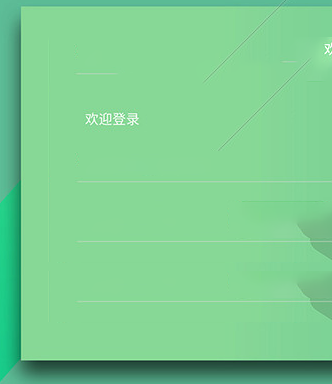
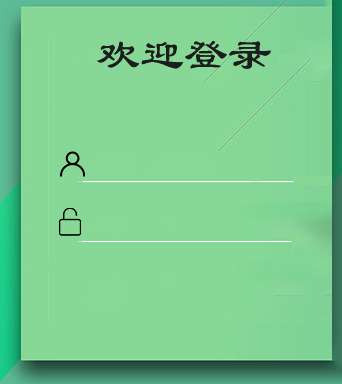
修改分数记录之前

diff --git a/app/src/main/java/cn/edu/glut/llk/MainLogical.java b/app/src/main/java/cn/edu/glut/llk/MainLogical.java
@@ -15,8 +15,7 @@ import java.util.List;
 import java.util.Map;
 
 public class MainLogical {
-    private String UsernameTest;
-    private String PasswordTest;
+    private final Controller MyController;
 
     private int Sound=1;//1为开
     Bitmap SoundOn;
@@ -28,6 +27,7 @@ public class MainLogical {
         this.myobserver =new Myobserver();
         this.game=game;
         this.myHandler=new Controller.MyHandler(this);
+        this.MyController=new Controller(this,game.getActivity());
         this.SoundOn = game.getImage("SoundOn.png");
         this.SoundOff= game.getImage("SoundOff.png");
     }
@@ -35,6 +35,10 @@ public class MainLogical {
     public void setProgressBar(int progressBarTime, int gameTime) {
         getObjectById("ProgressBar").setW(getObjectById("gameTime").getW()*gameTime/progressBarTime);
         getObjectById("ProgressBar2").setW(getObjectById("gameTime").getW()*gameTime/progressBarTime);
+    }
+
+    public void writeScore() {
+        MyController.writeScore();
     }
 
     public interface ListerLogicCallBack {
@@ -149,10 +153,7 @@ private void addGameReturnMenu(){
 //            setDisplay("menu", false);// 关闭menu菜单
 //            startGame3(game);
 //        });
-//        CreateLister("PingYi",()->{
-//            setDisplay("menu", false);// 关闭menu菜单
-//            startGame4(game);
-//        });
+
         CreateLister("NextBarrierTest", this::ReCreateChessboard);
         CreateLister("About",()->{
 
@@ -178,6 +179,7 @@ private void addGameReturnMenu(){
         //排行start
         CreateLister("Rank", () -> {
 //            AnimateLib.PopUpAnimate(game, "RankPage", true, 400, 400);//添加弹窗效果
+            MyController.sortRank();
             setDisplay("RankPage", true);// 显示排行
 
             setCanTouch( "menu0",false);
@@ -198,10 +200,25 @@ private void addGameReturnMenu(){
 
     private void addAccountListerLogic() {
         // 输入框start
+        CreateLister("inputFrame",()->{
+            setDisplay("inputFrame",false);
+            setCanTouch("menu0", true);
+            setCanTouch("BottomButton", true);//允许底部
+        });//遮罩层关闭，同时作为拦截响应
+        CreateLister("NoLoggedIn",()->{});//空响应
         CreateLister("Account", () -> {
-            setDisplay("inputFrame", true);
-            setCanTouch("menu0",false);
-            setCanTouch("BottomButton",false);//不允许底部
+            if(MyController.Username!=null){
+                setDisplay("inputFrame", true);
+                setDisplay("NoLoggedIn",false);
+                setDisplay("LoggedIn",true);//显示已登录页
+                setText("LoggedIn","用户："+MyController.Username);
+            }else {
+                setDisplay("inputFrame", true);
+                setDisplay("LoggedIn",true);//显示登录层
+                setText("LoggedIn","登录页");
+                setCanTouch("menu0", false);
+                setCanTouch("BottomButton", false);//不允许底部
+            }
         });//显示输入框
         getObjectById("inputUsername").onTouchStart(event -> {
             Log.e("账号点击了！", "2");
@@ -209,7 +226,7 @@ private void addGameReturnMenu(){
                 if (inputText == null) Log.i("输入框", "没有输入内容");
                 else {
                     Log.e("输入了", inputText);
-                    UsernameTest = inputText;
+                    MyController.Username= inputText;
                 }
                 getObjectById("inputUsername").setText(inputText);
             });
@@ -220,9 +237,10 @@ private void addGameReturnMenu(){
                 if (inputText == null) Log.i("输入框", "没有输入内容");
                 else {
                     Log.e("输入了", inputText);
-                    PasswordTest = inputText;
-                    getObjectById("inputPass").setText(inputText);
+                    MyController.Password = inputText;
+//                    getObjectById("inputPass").setText(inputText);
                 }
+                getObjectById("inputPass").setText(inputText);
             });
         });
         CreateLister("Cancel", () -> {
@@ -233,8 +251,8 @@ private void addGameReturnMenu(){
         });//不登录
         CreateLister("Submit", () -> {
             Log.i("提交登录", "登录判断待TODO");
-            if (UsernameTest.equals("user1") && PasswordTest.equals("123456")) {
-                Log.i("登录成功", UsernameTest + PasswordTest);
+            if (MyController.Login()) {
+//                Log.i("登录成功", UsernameTest + PasswordTest);
                 setDisplay("inputFrame", false);//登录判断，成功则关闭登录框
                 setCanTouch("menu",true);//退出登录框后可触摸
                 setCanTouch("BottomButton",true);//激活底部
@@ -268,7 +286,7 @@ private void addGameReturnMenu(){
         //生成游戏方块矩阵：
         List<Integer> EmptyColumn = Arrays.asList(4, 3);//从一开始
       GenerateChessboard.GenerateGameBlock(game,getObjectById("gameBarrier").getChildren().get(0),8,6,EmptyColumn,false,false,0, myobserver);
-        myHandler.starGameTimeCount(1000*60);//开启定时器，1秒每步减少时间
+        myHandler.starGameTimeCount(1000*6);//开启定时器，1秒每步减少时间
         setDisplay("currentBarrier",false);//当前关卡不显示
     }
 

diff --git a/app/src/main/java/cn/edu/glut/llk/zhu/Controller.java b/app/src/main/java/cn/edu/glut/llk/zhu/Controller.java
@@ -1,40 +1,94 @@
 package cn.edu.glut.llk.zhu;
 
+import android.annotation.TargetApi;
+import android.app.Activity;
+import android.content.SharedPreferences;
+import android.os.Build;
 import android.os.Handler;
-import android.os.Message;
+import android.util.Log;
 
 import java.lang.ref.WeakReference;
-import java.util.ArrayList;
-import java.util.TimerTask;
+import java.util.Map;
+import java.util.concurrent.atomic.AtomicInteger;
+
 import cn.edu.glut.llk.MainLogical;
+import cn.edu.glut.llk.wang.UserService;
+
+import static android.content.Context.MODE_PRIVATE;
 
 public class Controller {
-
+    private final  UserService UserService;
+    private WeakReference<MainLogical> ref;
+    SharedPreferences sp ;
     public static  int RecordScore;
-
-    public int Login() {
-        return 0;
+    public String Username;//登录注册用而已
+    public String Password;
+    public Controller(MainLogical mainLogical, Activity activity) {
+            this.ref = new WeakReference<>(mainLogical);
+            this.UserService=new UserService(activity);
+            this.sp=activity.getPreferences(MODE_PRIVATE);
+            this.Username=sp.getString("CurrentUser",null);//默认为null
     }
 
-    public int SignUp() {
-        return 0;
+    public boolean Login() {
+        MainLogical mainLogical = ref.get();
+        if(mainLogical==null)throw new NullPointerException();
+        if(Username==null||Username.equals("")) {mainLogical.setText("NoLoggedIn","用户名为空");return false;}
+        if(Password==null||Password.equals("")){mainLogical.setText("NoLoggedIn","密码为空");return false;}
+
+        if (UserService.CheckUsername(Username)) {//用户名存在
+            if (UserService.login(Username, Password))
+           { mainLogical.setText("inputFrame","登录成功");
+            rememberMe();//下一次不登录
+            return  true;}
+            else
+                {mainLogical.setText("inputFrame","密码错误");return false;}
+        }
+        else {
+            UserService.register(Username,Password);
+            mainLogical.setText("inputFrame","注册-登录成功");
+            rememberMe();//下一次不登录
+            return true;
+        }
     }
 
-    public ArrayList<String> sortRank() {
-        return null;
-    }
-
-    public static void writeScore(){
-        //写入分数
-    }
-class  GameTime extends TimerTask{
-int time;
-
-    @Override
-    public void run() {
-
-    }
+public void rememberMe(){
+    SharedPreferences.Editor ed = sp.edit();
+    ed.putString("CurrentUser",Username);//修改数据,当前用户
+    ed.apply();
 }
+
+    @TargetApi(Build.VERSION_CODES.N)
+    public void sortRank() {
+        MainLogical mainLogical = ref.get();
+        if (mainLogical == null) {
+            Log.e("mainlogical", "为空");
+            return;
+        }
+
+            Map<String, String> getdata = UserService.getdata();
+            AtomicInteger i = new AtomicInteger(1);
+            getdata.forEach((k, v) -> {
+                if (i.get() <= 5) {
+                    mainLogical.setText("Rank" + i, "用户："+k+"  分数："+ v);
+                    i.getAndIncrement();
+                }
+            });
+        }
+
+
+    public  void writeScore(){
+        Log.i("写入分数","writeScore");
+        //写入分数?只保存最高分？
+        String Curruser = sp.getString("CurrentUser", "");
+
+        if (!Curruser.equals("")) { //已登录状态
+           String maxScore=UserService.getdata().get(Curruser);
+//            if(maxScore !=null)
+                if(maxScore==null|| Integer.parseInt(maxScore)<RecordScore)//记录最高分
+                UserService.savedata(Curruser,String.valueOf(RecordScore));
+        }
+    }
 
     public static class MyHandler extends Handler {
         public static int GameTime = 1000 * 60 * 2;//默认2分钟
@@ -114,7 +168,7 @@ int time;
                 sendEmptyMessage(1);//清空0消息
                 mainLogical.setText("gameTime", "GameOver");
                 mainLogical.GameOver();//通知结束
-                writeScore();//记录分数
+               mainLogical.writeScore();//记录分数
             }
         }
     }

diff --git a/app/src/main/java/cn/edu/glut/llk/wang/UserService.java b/app/src/main/java/cn/edu/glut/llk/wang/UserService.java
@@ -1,0 +1,65 @@
+package cn.edu.glut.llk.wang;
+
+import android.content.Context;
+import android.database.Cursor;
+import android.database.sqlite.SQLiteDatabase;
+
+import java.util.ArrayList;
+import java.util.HashMap;
+import java.util.Map;
+
+public class UserService {
+    private DatabaseHelper dbHelper;
+    public UserService(Context context){
+        dbHelper=new DatabaseHelper(context);
+    }
+
+    public boolean login(String username,String password){
+        SQLiteDatabase sdb=dbHelper.getReadableDatabase();
+        String sql="select * from user where username=? and password=?";
+        Cursor cursor=sdb.rawQuery(sql, new String[]{username,password});
+        if(cursor.moveToFirst()){
+            cursor.close();
+            return true;
+        }
+        return false;
+    }
+    public boolean CheckUsername(String username){
+        SQLiteDatabase sdb=dbHelper.getReadableDatabase();
+        String sql="select * from user where username=?";
+        Cursor cursor=sdb.rawQuery(sql, new String[]{username});
+        if(cursor.moveToFirst()){
+            cursor.close();
+            return true;
+        }
+        return false;
+    }
+    public boolean register(String username,String password){
+        SQLiteDatabase sdb=dbHelper.getReadableDatabase();
+        String sql="insert into user(username,password) values(?,?)";
+        Object obj[]={ username, password};
+        sdb.execSQL(sql, obj);
+        return true;
+    }
+    public boolean savedata(String username,String score){
+        SQLiteDatabase sdb=dbHelper.getReadableDatabase();
+        String sql="update user set maxscore=? where username=?";
+        Object obj[]={score,username};
+        sdb.execSQL(sql, obj);
+        return true;
+    }
+    public Map<String,String> getdata(){
+        Map<String,String> result= new HashMap<>();
+        int i=0;
+        SQLiteDatabase sdb=dbHelper.getReadableDatabase();
+        String sql="select * from user order by maxscore desc";
+        Cursor cursor = sdb.rawQuery(sql, null);
+        while (cursor.moveToNext()) {
+            String name = cursor.getString(1);//获取第二列的值
+            String score = cursor.getString(3);//获取第三列的值
+            result.put(name,score);
+        }
+        cursor.close();
+        return result;
+    }
+}

diff --git a/app/src/main/java/cn/edu/glut/llk/wang/DatabaseHelper.java b/app/src/main/java/cn/edu/glut/llk/wang/DatabaseHelper.java
@@ -1,0 +1,24 @@
+package cn.edu.glut.llk.wang;
+
+import android.content.Context;
+import android.database.sqlite.SQLiteDatabase;
+import android.database.sqlite.SQLiteOpenHelper;
+
+public class DatabaseHelper extends SQLiteOpenHelper {
+    static String name="user.db";
+    static int dbVersion=1;
+    public DatabaseHelper(Context context) {
+        super(context, name, null, dbVersion);
+    }
+
+    public void onCreate(SQLiteDatabase db) {
+        String sql="create table user(id integer primary key autoincrement,username varchar(20),password varchar(20),maxscore varchar(20))";
+        db.execSQL(sql);
+    }
+    public void onUpgrade(SQLiteDatabase db, int oldVersion, int newVersion) {
+
+    }
+
+}
+
+
